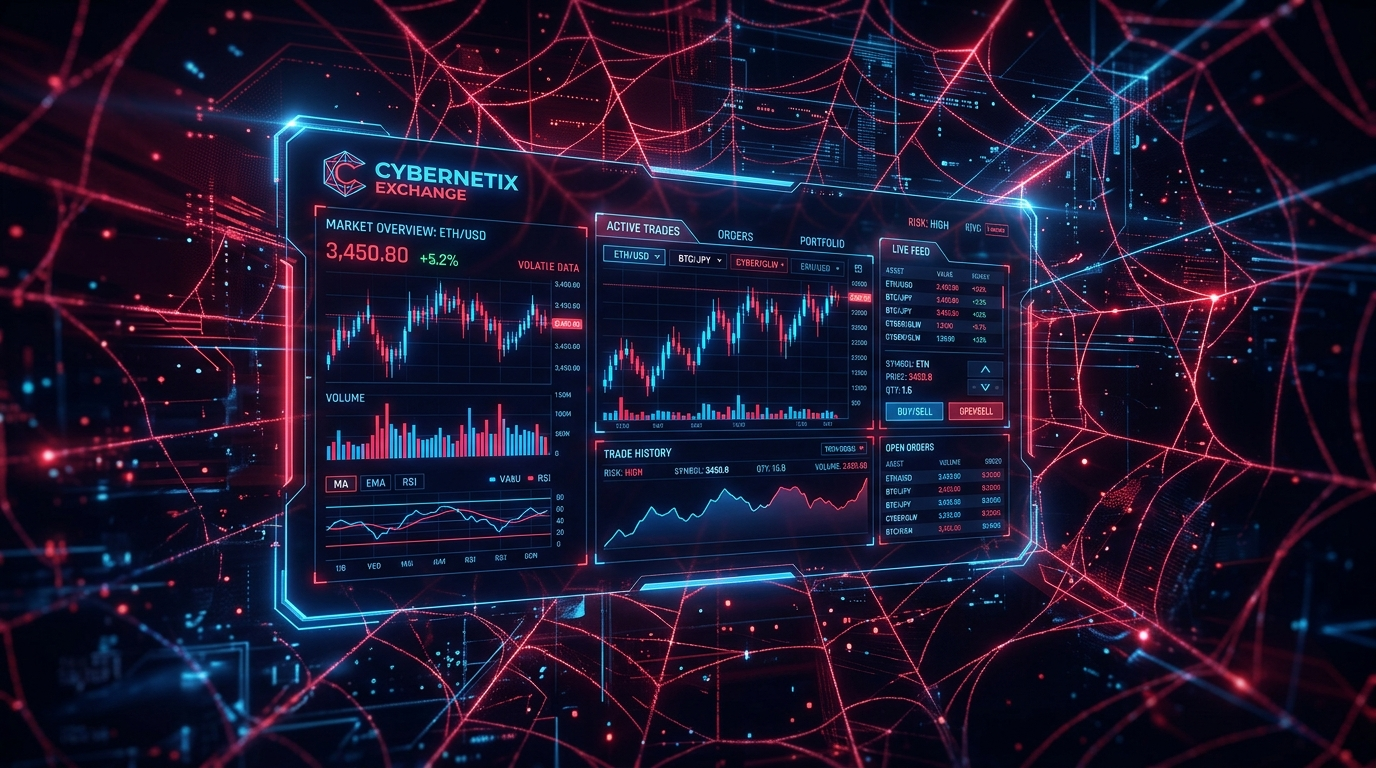
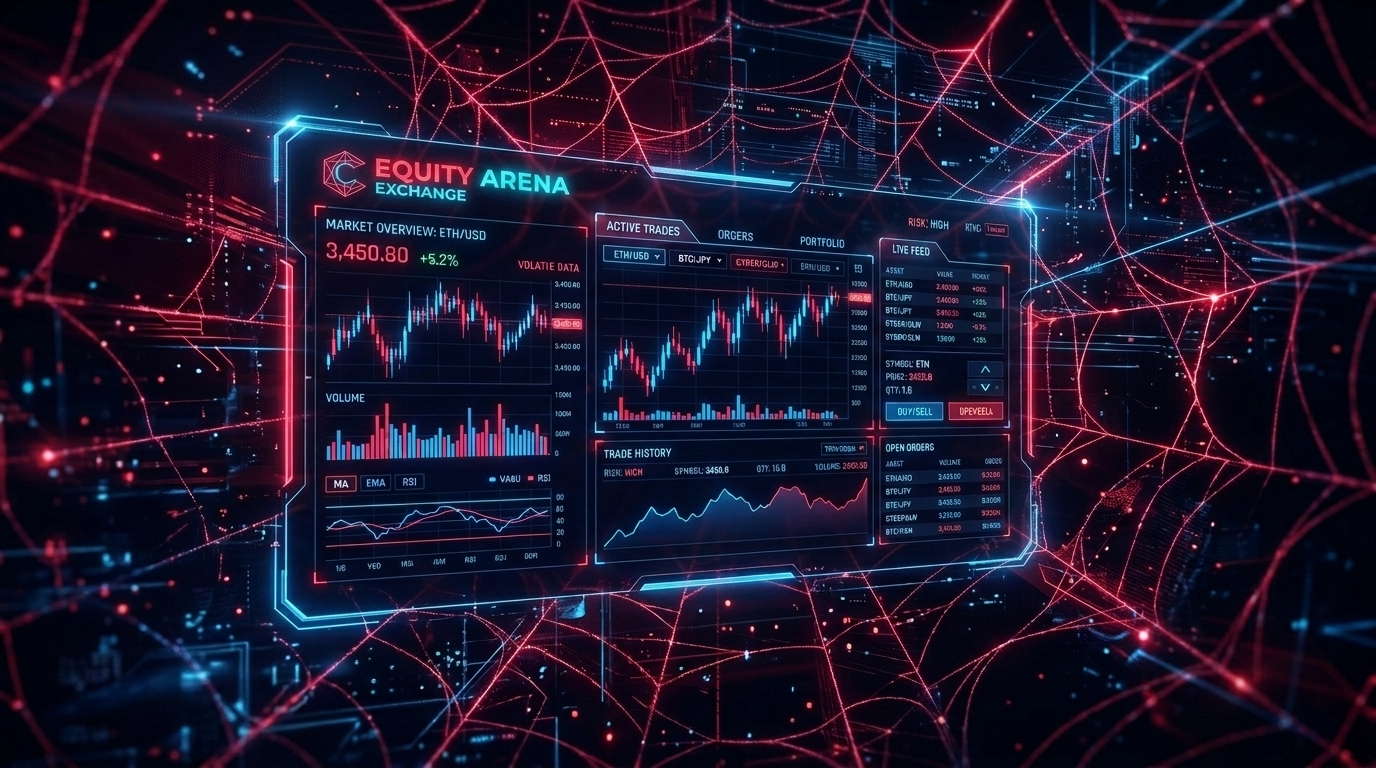
Update Hero graphic to EQUITY ARENA EXCHANGE and enhance overall website responsiveness and attractive styling

diff --git a/frontend/src/pages/Landing.jsx b/frontend/src/pages/Landing.jsx
@@ -10,17 +10,17 @@ import { useLiveStocks, useArenaIndex, sectorTheme } from '../hooks/useLiveStock
 const REGISTER_URL = 'https://ignite-8.vercel.app/register-stock';
 
 /* ------------------------------------------------------------------ *
- * SVG Spiderweb Decorative Components
+ * SVG Spiderweb Decorative Components (Responsive Vector Scaling)
  * ------------------------------------------------------------------ */
 
 /** Intricate 2D SVG Spiderweb Corner Overlay */
 function SpiderWebCorner({ className = "top-0 left-0", rotate = 0 }) {
   return (
     <div
-      className={`pointer-events-none absolute z-0 opacity-40 hover:opacity-85 transition-opacity duration-700 ${className}`}
+      className={`pointer-events-none absolute z-0 opacity-40 hover:opacity-85 transition-opacity duration-700 w-36 h-36 sm:w-64 sm:h-64 ${className}`}
       style={{ transform: `rotate(${rotate}deg)` }}
     >
-      <svg width="260" height="260" viewBox="0 0 260 260" fill="none" xmlns="http://www.w3.org/2000/svg">
+      <svg width="100%" height="100%" viewBox="0 0 260 260" fill="none" xmlns="http://www.w3.org/2000/svg">
         <defs>
           <linearGradient id="spideyWebGrad" x1="0" y1="0" x2="260" y2="260" gradientUnits="userSpaceOnUse">
             <stop stopColor="#ef4444" stopOpacity="0.85" />
@@ -164,19 +164,19 @@ function Navbar() {
         scrolled ? 'border-b border-red-500/25 bg-[#05070e]/92 backdrop-blur-xl shadow-xl shadow-red-950/20' : 'bg-transparent'
       }`}
     >
-      <nav className="mx-auto flex h-[72px] max-w-[1280px] items-center justify-between px-5 sm:px-8">
+      <nav className="mx-auto flex h-[72px] max-w-[1280px] items-center justify-between px-4 sm:px-8">
         {/* Brand */}
-        <a href="#home" className="group flex items-center gap-3">
-          <div className="relative flex h-10 w-10 overflow-hidden items-center justify-center rounded-xl bg-gradient-to-br from-red-600 via-red-500 to-blue-600 p-0.5 shadow-lg shadow-red-500/40 transition-transform duration-300 group-hover:scale-110 group-hover:rotate-6">
+        <a href="#home" className="group flex items-center gap-2.5 sm:gap-3">
+          <div className="relative flex h-9 w-9 sm:h-10 sm:w-10 overflow-hidden items-center justify-center rounded-xl bg-gradient-to-br from-red-600 via-red-500 to-blue-600 p-0.5 shadow-lg shadow-red-500/40 transition-transform duration-300 group-hover:scale-110 group-hover:rotate-6">
             <img src="/images/spider_emblem_hero.jpg" alt="Spider Emblem" className="h-full w-full object-cover rounded-[10px]" />
           </div>
-          <span className="font-display text-[17px] font-bold tracking-[0.14em] text-white">
+          <span className="font-display text-[15px] sm:text-[17px] font-bold tracking-[0.14em] text-white">
             EQUITY<span className="text-red-500">ARENA</span>
           </span>
         </a>
 
         {/* Desktop links */}
-        <div className="hidden items-center gap-9 lg:flex">
+        <div className="hidden items-center gap-8 xl:gap-9 lg:flex">
           {NAV_LINKS.map((link) => (
             <a
               key={link.href}
@@ -199,7 +199,7 @@ function Navbar() {
         <div className="flex items-center gap-3">
           <a
             href={REGISTER_URL}
-            className="glow-ring group flex items-center gap-2 rounded-xl bg-gradient-to-r from-red-600 via-red-500 to-blue-600 px-5 py-2.5 text-[14px] font-bold text-white shadow-lg shadow-red-600/35 transition-all hover:brightness-110 hover:shadow-red-500/60"
+            className="glow-ring group flex items-center gap-2 rounded-xl bg-gradient-to-r from-red-600 via-red-500 to-blue-600 px-4 py-2 sm:px-5 sm:py-2.5 text-[13px] sm:text-[14px] font-bold text-white shadow-lg shadow-red-600/35 transition-all hover:brightness-110 hover:shadow-red-500/60"
           >
             <span>Register</span>
             <ArrowRight className="h-4 w-4 transition-transform group-hover:translate-x-1" />
@@ -278,48 +278,48 @@ function Hero({ stocks, index, isLive }) {
         <div className="absolute inset-x-0 bottom-0 h-[45vh] grid-floor opacity-75" />
       </div>
 
-      <div className="mx-auto grid max-w-[1280px] items-center gap-14 px-5 pb-24 pt-14 sm:px-8 lg:grid-cols-[1fr_1.05fr] lg:gap-8 lg:pb-12 lg:pt-20">
+      <div className="mx-auto grid max-w-[1280px] items-center gap-10 sm:gap-14 px-4 sm:px-8 pb-20 pt-10 sm:pb-24 sm:pt-14 lg:grid-cols-[1fr_1.05fr] lg:gap-8 lg:pb-12 lg:pt-20">
         {/* ---------- Left column ---------- */}
         <motion.div variants={stagger} initial="hidden" animate="show" className="relative z-10">
           {/* Badge */}
           <motion.div variants={fadeUp}>
-            <span className="inline-flex items-center gap-2 rounded-full border border-red-500/40 bg-red-500/10 px-4 py-2 text-[12px] font-bold text-red-300 backdrop-blur shadow-lg shadow-red-500/20">
+            <span className="inline-flex items-center gap-2 rounded-full border border-red-500/40 bg-red-500/10 px-3.5 py-1.5 sm:px-4 sm:py-2 text-[11px] sm:text-[12px] font-bold text-red-300 backdrop-blur shadow-lg shadow-red-500/20">
               <span className="h-2.5 w-2.5 rounded-full bg-red-500 animate-live" />
-              🕷 SPIDEY TRADING NETWORK • WEB-SHOOTER SPEED • ZERO RISK
+              🕷 SPIDER TRADING NETWORK • WEB-SHOOTER SPEED • ZERO RISK
             </span>
           </motion.div>
 
           {/* Headline */}
           <motion.h1
             variants={fadeUp}
-            className="font-display mt-7 text-[clamp(2.75rem,7vw,4.6rem)] font-bold leading-[0.98] tracking-[-0.03em] text-white"
+            className="font-display mt-6 sm:mt-7 text-[clamp(2.25rem,6vw,4.6rem)] font-bold leading-[1.0] tracking-[-0.03em] text-white"
           >
             With great capital
             <br />
             comes <span className="text-gradient-spidey">great responsibility.</span>
           </motion.h1>
 
-          <motion.p variants={fadeUp} className="mt-6 max-w-[460px] text-[16px] leading-relaxed text-slate-300">
+          <motion.p variants={fadeUp} className="mt-5 sm:mt-6 max-w-[460px] text-[15px] sm:text-[16px] leading-relaxed text-slate-300">
             Step into the Spider-Verse of trading. Monitor 15 high-volatility sector stocks,
             sense price swings with your Spidey-Sense ticker, and sling orders across the live market web with 20,000 Ignite Coins.
           </motion.p>
 
           {/* CTAs */}
-          <motion.div variants={fadeUp} className="mt-9 flex flex-wrap items-center gap-5">
+          <motion.div variants={fadeUp} className="mt-8 sm:mt-9 flex flex-wrap items-center gap-4 sm:gap-5">
             <a
               href={REGISTER_URL}
-              className="glow-ring group flex items-center gap-2.5 rounded-2xl bg-gradient-to-r from-red-600 via-red-500 to-blue-600 px-7 py-4 text-[15px] font-bold text-white shadow-xl shadow-red-600/40 transition-all hover:scale-[1.03] hover:shadow-red-500/70"
+              className="glow-ring group flex items-center gap-2.5 rounded-2xl bg-gradient-to-r from-red-600 via-red-500 to-blue-600 px-6 py-3.5 sm:px-7 sm:py-4 text-[14px] sm:text-[15px] font-bold text-white shadow-xl shadow-red-600/40 transition-all hover:scale-[1.03] hover:shadow-red-500/70"
             >
               Register Now
               <ArrowRight className="h-4.5 w-4.5 transition-transform group-hover:translate-x-1.5" />
             </a>
 
             <a href="#features" className="group flex items-center gap-3.5">
-              <span className="relative flex h-12 w-12 items-center justify-center rounded-full border border-red-500/40 bg-red-500/15 transition-all group-hover:border-red-400 group-hover:bg-red-500/25">
+              <span className="relative flex h-11 w-11 sm:h-12 sm:w-12 items-center justify-center rounded-full border border-red-500/40 bg-red-500/15 transition-all group-hover:border-red-400 group-hover:bg-red-500/25">
                 <Play className="h-4 w-4 fill-white text-white translate-x-[1px]" />
                 <span className="absolute inset-0 rounded-full border border-blue-400/40 opacity-0 transition-all duration-500 group-hover:scale-[1.35] group-hover:opacity-100" />
               </span>
-              <span className="text-[15px] font-medium text-slate-300 transition group-hover:text-white">
+              <span className="text-[14px] sm:text-[15px] font-medium text-slate-300 transition group-hover:text-white">
                 Explore Web Terminal
               </span>
             </a>
@@ -328,7 +328,7 @@ function Hero({ stocks, index, isLive }) {
           {/* Feature strip */}
           <motion.div
             variants={fadeUp}
-            className="mt-12 grid grid-cols-1 gap-1 rounded-2xl border border-red-500/30 bg-slate-900/70 p-2 backdrop-blur-md sm:grid-cols-3 shadow-2xl"
+            className="mt-10 sm:mt-12 grid grid-cols-1 gap-2.5 rounded-2xl border border-red-500/30 bg-slate-900/70 p-2 backdrop-blur-md sm:grid-cols-3 shadow-2xl"
           >
             {HERO_FEATURES.map(({ icon: Icon, title, sub }) => (
               <div
@@ -350,9 +350,9 @@ function Hero({ stocks, index, isLive }) {
         {/* ---------- Right column: 3D deck + Spider Banner preview ---------- */}
         <motion.div style={{ y }} className="relative lg:pr-14">
           <div className="relative rounded-3xl p-2 border border-red-500/40 bg-gradient-to-b from-red-600/15 via-slate-950 to-blue-600/15 shadow-2xl shadow-red-950/90 backdrop-blur-xl">
-            {/* Embedded High-Tech Spider Cyber Image */}
+            {/* Embedded High-Tech Spider Cyber Image with Equity Arena Exchange */}
             <div className="mb-4 overflow-hidden rounded-2xl border border-red-500/30 shadow-xl">
-              <img src="/images/spider_cyber_hero.jpg" alt="Spider-Man Trading Terminal" className="h-44 w-full object-cover brightness-110 hover:scale-105 transition-transform duration-700" />
+              <img src="/images/spider_cyber_hero.jpg" alt="Equity Arena Exchange Terminal" className="h-44 sm:h-52 w-full object-cover brightness-110 hover:scale-105 transition-transform duration-700" />
             </div>
             <HeroDeck stocks={stocks} index={index} isLive={isLive} />
           </div>
@@ -635,7 +635,7 @@ function Markets({ stocks, isLive }) {
           <p className="flex items-center gap-2.5 text-[13.5px] text-slate-300">
             <span className={`h-2.5 w-2.5 rounded-full ${isLive ? 'bg-red-500 animate-live' : 'bg-amber-400'}`} />
             {isLive
-              ? 'Streaming live price ticks across the Spider-Man trading web'
+              ? 'Streaming live price ticks across the Equity Arena exchange web'
               : 'Showing reference market seeds — register to enter the live Spider-Verse'}
           </p>
           <a

diff --git a/src/pages/Landing.jsx b/src/pages/Landing.jsx
@@ -10,17 +10,17 @@ import { useLiveStocks, useArenaIndex, sectorTheme } from '../hooks/useLiveStock
 const REGISTER_URL = 'https://ignite-8.vercel.app/register-stock';
 
 /* ------------------------------------------------------------------ *
- * SVG Spiderweb Decorative Components
+ * SVG Spiderweb Decorative Components (Responsive Vector Scaling)
  * ------------------------------------------------------------------ */
 
 /** Intricate 2D SVG Spiderweb Corner Overlay */
 function SpiderWebCorner({ className = "top-0 left-0", rotate = 0 }) {
   return (
     <div
-      className={`pointer-events-none absolute z-0 opacity-40 hover:opacity-85 transition-opacity duration-700 ${className}`}
+      className={`pointer-events-none absolute z-0 opacity-40 hover:opacity-85 transition-opacity duration-700 w-36 h-36 sm:w-64 sm:h-64 ${className}`}
       style={{ transform: `rotate(${rotate}deg)` }}
     >
-      <svg width="260" height="260" viewBox="0 0 260 260" fill="none" xmlns="http://www.w3.org/2000/svg">
+      <svg width="100%" height="100%" viewBox="0 0 260 260" fill="none" xmlns="http://www.w3.org/2000/svg">
         <defs>
           <linearGradient id="spideyWebGrad" x1="0" y1="0" x2="260" y2="260" gradientUnits="userSpaceOnUse">
             <stop stopColor="#ef4444" stopOpacity="0.85" />
@@ -164,19 +164,19 @@ function Navbar() {
         scrolled ? 'border-b border-red-500/25 bg-[#05070e]/92 backdrop-blur-xl shadow-xl shadow-red-950/20' : 'bg-transparent'
       }`}
     >
-      <nav className="mx-auto flex h-[72px] max-w-[1280px] items-center justify-between px-5 sm:px-8">
+      <nav className="mx-auto flex h-[72px] max-w-[1280px] items-center justify-between px-4 sm:px-8">
         {/* Brand */}
-        <a href="#home" className="group flex items-center gap-3">
-          <div className="relative flex h-10 w-10 overflow-hidden items-center justify-center rounded-xl bg-gradient-to-br from-red-600 via-red-500 to-blue-600 p-0.5 shadow-lg shadow-red-500/40 transition-transform duration-300 group-hover:scale-110 group-hover:rotate-6">
+        <a href="#home" className="group flex items-center gap-2.5 sm:gap-3">
+          <div className="relative flex h-9 w-9 sm:h-10 sm:w-10 overflow-hidden items-center justify-center rounded-xl bg-gradient-to-br from-red-600 via-red-500 to-blue-600 p-0.5 shadow-lg shadow-red-500/40 transition-transform duration-300 group-hover:scale-110 group-hover:rotate-6">
             <img src="/images/spider_emblem_hero.jpg" alt="Spider Emblem" className="h-full w-full object-cover rounded-[10px]" />
           </div>
-          <span className="font-display text-[17px] font-bold tracking-[0.14em] text-white">
+          <span className="font-display text-[15px] sm:text-[17px] font-bold tracking-[0.14em] text-white">
             EQUITY<span className="text-red-500">ARENA</span>
           </span>
         </a>
 
         {/* Desktop links */}
-        <div className="hidden items-center gap-9 lg:flex">
+        <div className="hidden items-center gap-8 xl:gap-9 lg:flex">
           {NAV_LINKS.map((link) => (
             <a
               key={link.href}
@@ -199,7 +199,7 @@ function Navbar() {
         <div className="flex items-center gap-3">
           <a
             href={REGISTER_URL}
-            className="glow-ring group flex items-center gap-2 rounded-xl bg-gradient-to-r from-red-600 via-red-500 to-blue-600 px-5 py-2.5 text-[14px] font-bold text-white shadow-lg shadow-red-600/35 transition-all hover:brightness-110 hover:shadow-red-500/60"
+            className="glow-ring group flex items-center gap-2 rounded-xl bg-gradient-to-r from-red-600 via-red-500 to-blue-600 px-4 py-2 sm:px-5 sm:py-2.5 text-[13px] sm:text-[14px] font-bold text-white shadow-lg shadow-red-600/35 transition-all hover:brightness-110 hover:shadow-red-500/60"
           >
             <span>Register</span>
             <ArrowRight className="h-4 w-4 transition-transform group-hover:translate-x-1" />
@@ -278,48 +278,48 @@ function Hero({ stocks, index, isLive }) {
         <div className="absolute inset-x-0 bottom-0 h-[45vh] grid-floor opacity-75" />
       </div>
 
-      <div className="mx-auto grid max-w-[1280px] items-center gap-14 px-5 pb-24 pt-14 sm:px-8 lg:grid-cols-[1fr_1.05fr] lg:gap-8 lg:pb-12 lg:pt-20">
+      <div className="mx-auto grid max-w-[1280px] items-center gap-10 sm:gap-14 px-4 sm:px-8 pb-20 pt-10 sm:pb-24 sm:pt-14 lg:grid-cols-[1fr_1.05fr] lg:gap-8 lg:pb-12 lg:pt-20">
         {/* ---------- Left column ---------- */}
         <motion.div variants={stagger} initial="hidden" animate="show" className="relative z-10">
           {/* Badge */}
           <motion.div variants={fadeUp}>
-            <span className="inline-flex items-center gap-2 rounded-full border border-red-500/40 bg-red-500/10 px-4 py-2 text-[12px] font-bold text-red-300 backdrop-blur shadow-lg shadow-red-500/20">
+            <span className="inline-flex items-center gap-2 rounded-full border border-red-500/40 bg-red-500/10 px-3.5 py-1.5 sm:px-4 sm:py-2 text-[11px] sm:text-[12px] font-bold text-red-300 backdrop-blur shadow-lg shadow-red-500/20">
               <span className="h-2.5 w-2.5 rounded-full bg-red-500 animate-live" />
-              🕷 SPIDEY TRADING NETWORK • WEB-SHOOTER SPEED • ZERO RISK
+              🕷 SPIDER TRADING NETWORK • WEB-SHOOTER SPEED • ZERO RISK
             </span>
           </motion.div>
 
           {/* Headline */}
           <motion.h1
             variants={fadeUp}
-            className="font-display mt-7 text-[clamp(2.75rem,7vw,4.6rem)] font-bold leading-[0.98] tracking-[-0.03em] text-white"
+            className="font-display mt-6 sm:mt-7 text-[clamp(2.25rem,6vw,4.6rem)] font-bold leading-[1.0] tracking-[-0.03em] text-white"
           >
             With great capital
             <br />
             comes <span className="text-gradient-spidey">great responsibility.</span>
           </motion.h1>
 
-          <motion.p variants={fadeUp} className="mt-6 max-w-[460px] text-[16px] leading-relaxed text-slate-300">
+          <motion.p variants={fadeUp} className="mt-5 sm:mt-6 max-w-[460px] text-[15px] sm:text-[16px] leading-relaxed text-slate-300">
             Step into the Spider-Verse of trading. Monitor 15 high-volatility sector stocks,
             sense price swings with your Spidey-Sense ticker, and sling orders across the live market web with 20,000 Ignite Coins.
           </motion.p>
 
           {/* CTAs */}
-          <motion.div variants={fadeUp} className="mt-9 flex flex-wrap items-center gap-5">
+          <motion.div variants={fadeUp} className="mt-8 sm:mt-9 flex flex-wrap items-center gap-4 sm:gap-5">
             <a
               href={REGISTER_URL}
-              className="glow-ring group flex items-center gap-2.5 rounded-2xl bg-gradient-to-r from-red-600 via-red-500 to-blue-600 px-7 py-4 text-[15px] font-bold text-white shadow-xl shadow-red-600/40 transition-all hover:scale-[1.03] hover:shadow-red-500/70"
+              className="glow-ring group flex items-center gap-2.5 rounded-2xl bg-gradient-to-r from-red-600 via-red-500 to-blue-600 px-6 py-3.5 sm:px-7 sm:py-4 text-[14px] sm:text-[15px] font-bold text-white shadow-xl shadow-red-600/40 transition-all hover:scale-[1.03] hover:shadow-red-500/70"
             >
               Register Now
               <ArrowRight className="h-4.5 w-4.5 transition-transform group-hover:translate-x-1.5" />
             </a>
 
             <a href="#features" className="group flex items-center gap-3.5">
-              <span className="relative flex h-12 w-12 items-center justify-center rounded-full border border-red-500/40 bg-red-500/15 transition-all group-hover:border-red-400 group-hover:bg-red-500/25">
+              <span className="relative flex h-11 w-11 sm:h-12 sm:w-12 items-center justify-center rounded-full border border-red-500/40 bg-red-500/15 transition-all group-hover:border-red-400 group-hover:bg-red-500/25">
                 <Play className="h-4 w-4 fill-white text-white translate-x-[1px]" />
                 <span className="absolute inset-0 rounded-full border border-blue-400/40 opacity-0 transition-all duration-500 group-hover:scale-[1.35] group-hover:opacity-100" />
               </span>
-              <span className="text-[15px] font-medium text-slate-300 transition group-hover:text-white">
+              <span className="text-[14px] sm:text-[15px] font-medium text-slate-300 transition group-hover:text-white">
                 Explore Web Terminal
               </span>
             </a>
@@ -328,7 +328,7 @@ function Hero({ stocks, index, isLive }) {
           {/* Feature strip */}
           <motion.div
             variants={fadeUp}
-            className="mt-12 grid grid-cols-1 gap-1 rounded-2xl border border-red-500/30 bg-slate-900/70 p-2 backdrop-blur-md sm:grid-cols-3 shadow-2xl"
+            className="mt-10 sm:mt-12 grid grid-cols-1 gap-2.5 rounded-2xl border border-red-500/30 bg-slate-900/70 p-2 backdrop-blur-md sm:grid-cols-3 shadow-2xl"
           >
             {HERO_FEATURES.map(({ icon: Icon, title, sub }) => (
               <div
@@ -350,9 +350,9 @@ function Hero({ stocks, index, isLive }) {
         {/* ---------- Right column: 3D deck + Spider Banner preview ---------- */}
         <motion.div style={{ y }} className="relative lg:pr-14">
           <div className="relative rounded-3xl p-2 border border-red-500/40 bg-gradient-to-b from-red-600/15 via-slate-950 to-blue-600/15 shadow-2xl shadow-red-950/90 backdrop-blur-xl">
-            {/* Embedded High-Tech Spider Cyber Image */}
+            {/* Embedded High-Tech Spider Cyber Image with Equity Arena Exchange */}
             <div className="mb-4 overflow-hidden rounded-2xl border border-red-500/30 shadow-xl">
-              <img src="/images/spider_cyber_hero.jpg" alt="Spider-Man Trading Terminal" className="h-44 w-full object-cover brightness-110 hover:scale-105 transition-transform duration-700" />
+              <img src="/images/spider_cyber_hero.jpg" alt="Equity Arena Exchange Terminal" className="h-44 sm:h-52 w-full object-cover brightness-110 hover:scale-105 transition-transform duration-700" />
             </div>
             <HeroDeck stocks={stocks} index={index} isLive={isLive} />
           </div>
@@ -635,7 +635,7 @@ function Markets({ stocks, isLive }) {
           <p className="flex items-center gap-2.5 text-[13.5px] text-slate-300">
             <span className={`h-2.5 w-2.5 rounded-full ${isLive ? 'bg-red-500 animate-live' : 'bg-amber-400'}`} />
             {isLive
-              ? 'Streaming live price ticks across the Spider-Man trading web'
+              ? 'Streaming live price ticks across the Equity Arena exchange web'
               : 'Showing reference market seeds — register to enter the live Spider-Verse'}
           </p>
           <a
